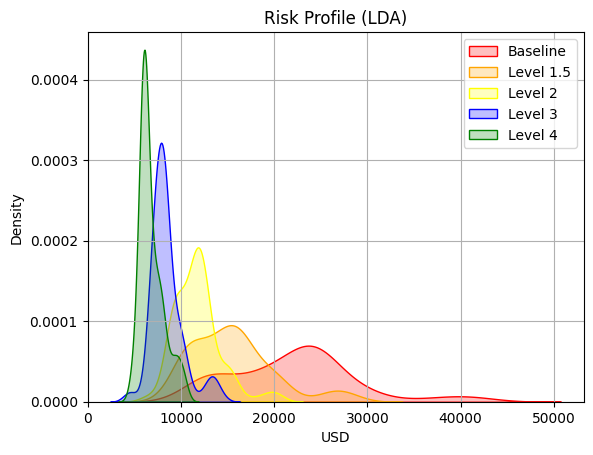
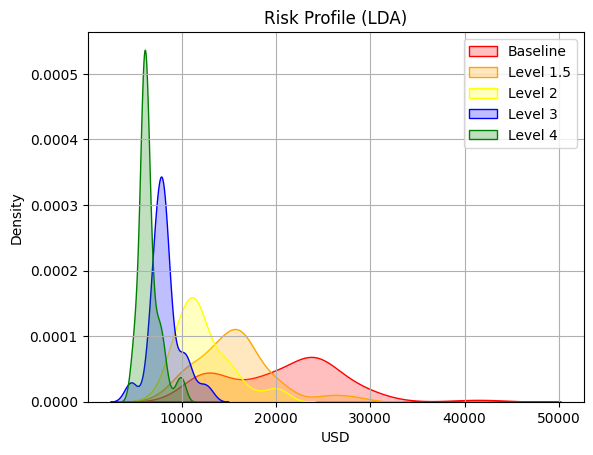
Publico dashboard estático (index + tabla + figura)

diff --git a/index.html b/index.html
@@ -11,8 +11,8 @@
 <h1 class="mb-4 text-center">Prospectiva del Riesgo</h1>
 
 <h3>Perfiles Captura CO2</h3>
-<div class="table-responsive mb-4">
-<table border="1" class="dataframe table table-striped">
+<div class="table-responsive" style="max-height:600px; overflow-y:auto;">
+  <table border="1" class="dataframe table table-striped">
   <thead>
     <tr style="text-align: right;">
       <th>Media (USD)</th>
@@ -31,74 +31,74 @@
   </thead>
   <tbody>
     <tr>
-      <td>22096.50</td>
-      <td>26566.57</td>
-      <td>24689.04</td>
-      <td>42524.35</td>
-      <td>0.70</td>
-      <td>43586.0</td>
-      <td>48223.0</td>
+      <td>20823.81</td>
+      <td>25260.06</td>
+      <td>24096.25</td>
+      <td>42471.91</td>
+      <td>0.44</td>
+      <td>42659.0</td>
+      <td>49151.0</td>
       <td>927.0</td>
       <td>0.0</td>
       <td>0.00</td>
-      <td>4084.49</td>
-      <td>93871.81</td>
+      <td>4164.01</td>
+      <td>96088.39</td>
     </tr>
     <tr>
-      <td>15489.95</td>
-      <td>18488.89</td>
-      <td>17004.43</td>
-      <td>28418.10</td>
-      <td>1.01</td>
-      <td>86246.0</td>
-      <td>6491.0</td>
+      <td>15596.54</td>
+      <td>18088.00</td>
+      <td>16877.13</td>
+      <td>28522.26</td>
+      <td>0.93</td>
+      <td>85318.0</td>
+      <td>7419.0</td>
       <td>0.0</td>
       <td>41732.0</td>
       <td>151445.18</td>
-      <td>5933.15</td>
-      <td>88206.89</td>
+      <td>6042.37</td>
+      <td>99574.70</td>
     </tr>
     <tr>
-      <td>11705.15</td>
-      <td>13227.96</td>
-      <td>12408.05</td>
-      <td>20144.44</td>
-      <td>1.16</td>
+      <td>12295.37</td>
+      <td>15405.98</td>
+      <td>13883.81</td>
+      <td>20590.70</td>
+      <td>1.06</td>
+      <td>81609.0</td>
+      <td>11128.0</td>
+      <td>0.0</td>
+      <td>38023.0</td>
+      <td>137985.24</td>
+      <td>7920.72</td>
+      <td>88105.85</td>
+    </tr>
+    <tr>
+      <td>8198.14</td>
+      <td>9798.18</td>
+      <td>8427.22</td>
+      <td>13013.67</td>
+      <td>0.68</td>
+      <td>89955.0</td>
+      <td>2782.0</td>
+      <td>0.0</td>
+      <td>46369.0</td>
+      <td>168272.83</td>
+      <td>11677.44</td>
+      <td>95475.82</td>
+    </tr>
+    <tr>
+      <td>6478.89</td>
+      <td>7700.44</td>
+      <td>6848.05</td>
+      <td>10084.49</td>
+      <td>1.52</td>
       <td>87173.0</td>
       <td>5564.0</td>
       <td>0.0</td>
-      <td>42659.0</td>
-      <td>154809.26</td>
-      <td>7781.81</td>
-      <td>91569.84</td>
-    </tr>
-    <tr>
-      <td>8418.09</td>
-      <td>10216.86</td>
-      <td>8779.33</td>
-      <td>14193.10</td>
-      <td>1.38</td>
-      <td>86246.0</td>
-      <td>6491.0</td>
-      <td>0.0</td>
-      <td>41732.0</td>
-      <td>151445.18</td>
-      <td>11479.13</td>
-      <td>91283.70</td>
-    </tr>
-    <tr>
-      <td>6764.62</td>
-      <td>7993.15</td>
-      <td>7550.57</td>
-      <td>10363.05</td>
-      <td>1.17</td>
-      <td>83464.0</td>
-      <td>9273.0</td>
-      <td>0.0</td>
-      <td>38950.0</td>
-      <td>141349.32</td>
-      <td>15176.45</td>
-      <td>95774.11</td>
+      <td>43587.0</td>
+      <td>158176.97</td>
+      <td>15434.16</td>
+      <td>88493.65</td>
     </tr>
   </tbody>
 </table>
@@ -107,7 +107,8 @@
 <h3>Distribución Agregada de Pérdidas</h3>
 <div class="row">
   <div class="col-md-6">
-    <img src="figura1.png" class="img-fluid shadow rounded">
+    <img src="RiskProfileLDA.png" class="img-fluid w-100 shadow rounded">
+  </div>
 </div>
 
 </body>

diff --git a/tabla.html b/tabla.html
@@ -17,74 +17,74 @@
   </thead>
   <tbody>
     <tr>
-      <td>22096.50</td>
-      <td>26566.57</td>
-      <td>24689.04</td>
-      <td>42524.35</td>
-      <td>0.70</td>
-      <td>43586.0</td>
-      <td>48223.0</td>
+      <td>20823.81</td>
+      <td>25260.06</td>
+      <td>24096.25</td>
+      <td>42471.91</td>
+      <td>0.44</td>
+      <td>42659.0</td>
+      <td>49151.0</td>
       <td>927.0</td>
       <td>0.0</td>
       <td>0.00</td>
-      <td>4084.49</td>
-      <td>93871.81</td>
+      <td>4164.01</td>
+      <td>96088.39</td>
     </tr>
     <tr>
-      <td>15489.95</td>
-      <td>18488.89</td>
-      <td>17004.43</td>
-      <td>28418.10</td>
-      <td>1.01</td>
-      <td>86246.0</td>
-      <td>6491.0</td>
+      <td>15596.54</td>
+      <td>18088.00</td>
+      <td>16877.13</td>
+      <td>28522.26</td>
+      <td>0.93</td>
+      <td>85318.0</td>
+      <td>7419.0</td>
       <td>0.0</td>
       <td>41732.0</td>
       <td>151445.18</td>
-      <td>5933.15</td>
-      <td>88206.89</td>
+      <td>6042.37</td>
+      <td>99574.70</td>
     </tr>
     <tr>
-      <td>11705.15</td>
-      <td>13227.96</td>
-      <td>12408.05</td>
-      <td>20144.44</td>
-      <td>1.16</td>
+      <td>12295.37</td>
+      <td>15405.98</td>
+      <td>13883.81</td>
+      <td>20590.70</td>
+      <td>1.06</td>
+      <td>81609.0</td>
+      <td>11128.0</td>
+      <td>0.0</td>
+      <td>38023.0</td>
+      <td>137985.24</td>
+      <td>7920.72</td>
+      <td>88105.85</td>
+    </tr>
+    <tr>
+      <td>8198.14</td>
+      <td>9798.18</td>
+      <td>8427.22</td>
+      <td>13013.67</td>
+      <td>0.68</td>
+      <td>89955.0</td>
+      <td>2782.0</td>
+      <td>0.0</td>
+      <td>46369.0</td>
+      <td>168272.83</td>
+      <td>11677.44</td>
+      <td>95475.82</td>
+    </tr>
+    <tr>
+      <td>6478.89</td>
+      <td>7700.44</td>
+      <td>6848.05</td>
+      <td>10084.49</td>
+      <td>1.52</td>
       <td>87173.0</td>
       <td>5564.0</td>
       <td>0.0</td>
-      <td>42659.0</td>
-      <td>154809.26</td>
-      <td>7781.81</td>
-      <td>91569.84</td>
-    </tr>
-    <tr>
-      <td>8418.09</td>
-      <td>10216.86</td>
-      <td>8779.33</td>
-      <td>14193.10</td>
-      <td>1.38</td>
-      <td>86246.0</td>
-      <td>6491.0</td>
-      <td>0.0</td>
-      <td>41732.0</td>
-      <td>151445.18</td>
-      <td>11479.13</td>
-      <td>91283.70</td>
-    </tr>
-    <tr>
-      <td>6764.62</td>
-      <td>7993.15</td>
-      <td>7550.57</td>
-      <td>10363.05</td>
-      <td>1.17</td>
-      <td>83464.0</td>
-      <td>9273.0</td>
-      <td>0.0</td>
-      <td>38950.0</td>
-      <td>141349.32</td>
-      <td>15176.45</td>
-      <td>95774.11</td>
+      <td>43587.0</td>
+      <td>158176.97</td>
+      <td>15434.16</td>
+      <td>88493.65</td>
     </tr>
   </tbody>
 </table>
